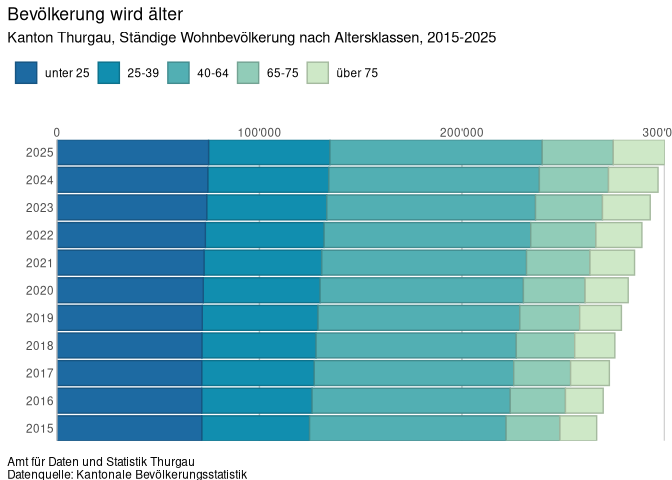
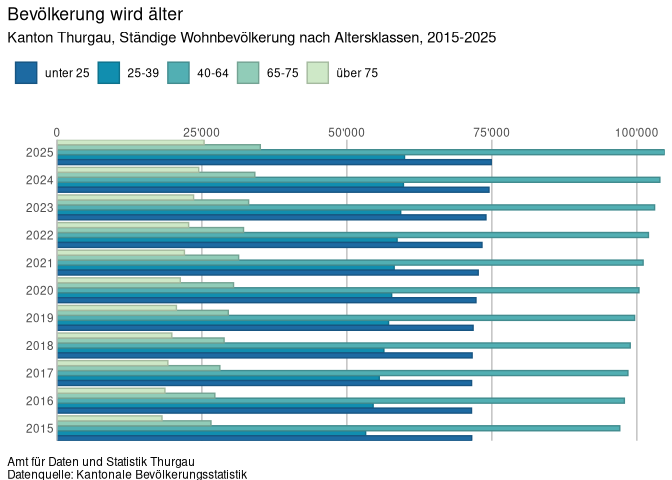
updated descriptions of several functions

diff --git a/README.md b/README.md
@@ -290,6 +290,7 @@ ggplot_grouped_bar_palette(
   fill_palette_name = "fillSeq5",
   border_palette = border_sequential,
   border_palette_name = "borderSeq5",
+  position = "dodge",
   title = "Bevölkerung wird älter", subtitle = "Kanton Thurgau, Ständige Wohnbevölkerung nach Altersklassen, 2015-2025",
   source = "Kantonale Bevölkerungsstatistik"
 )
